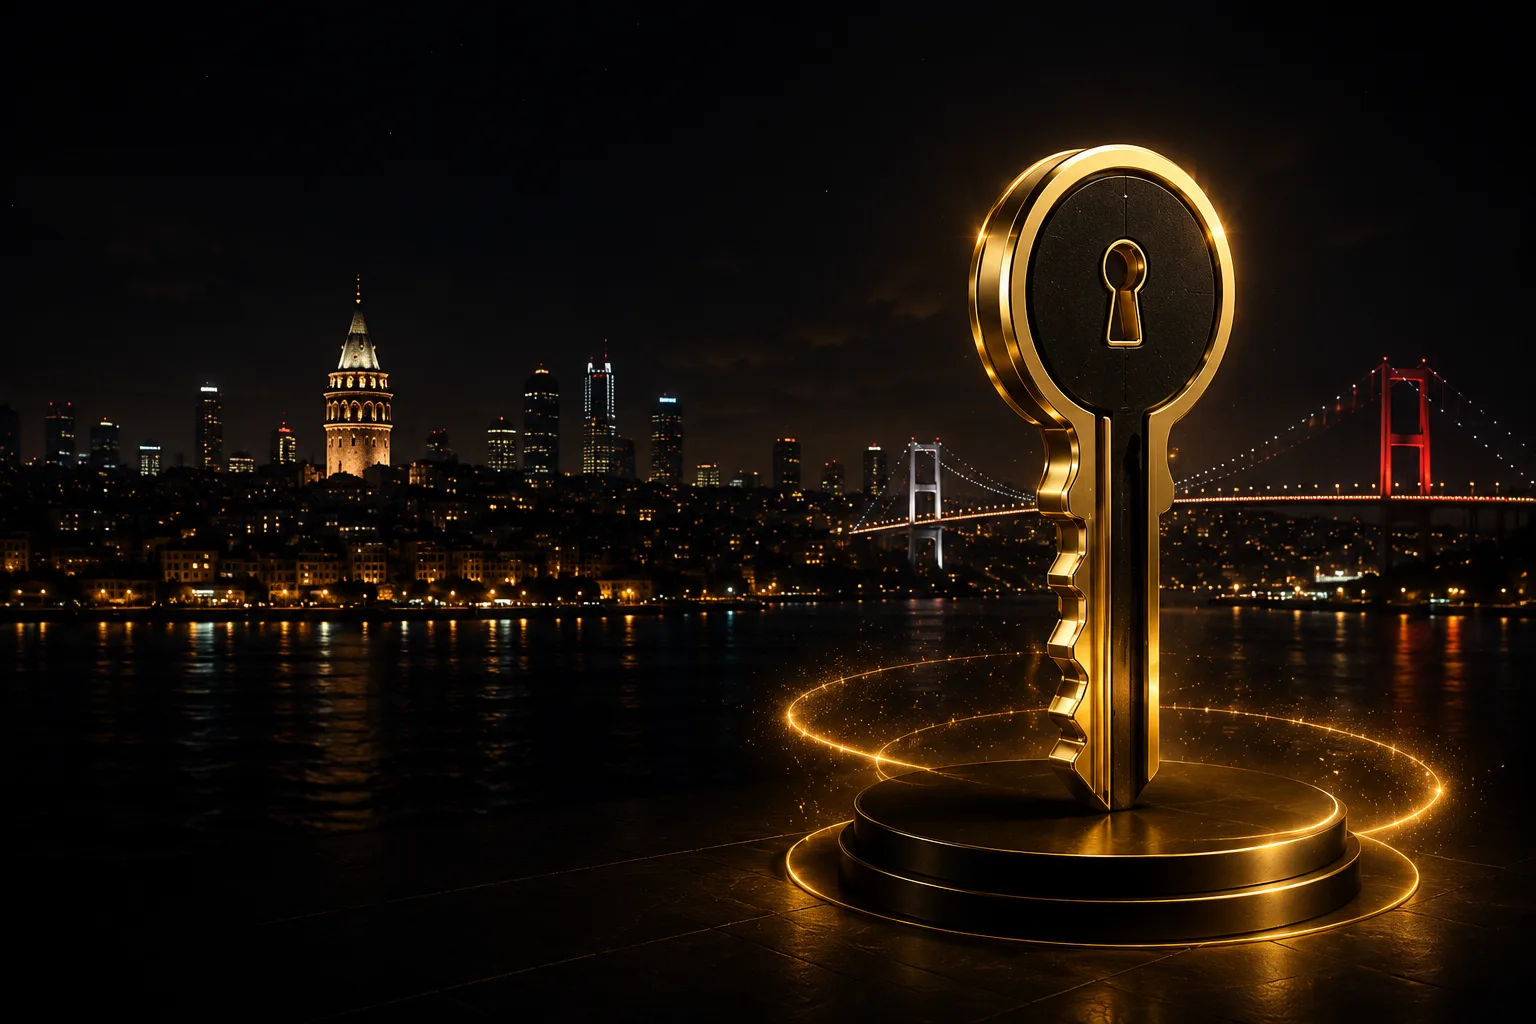
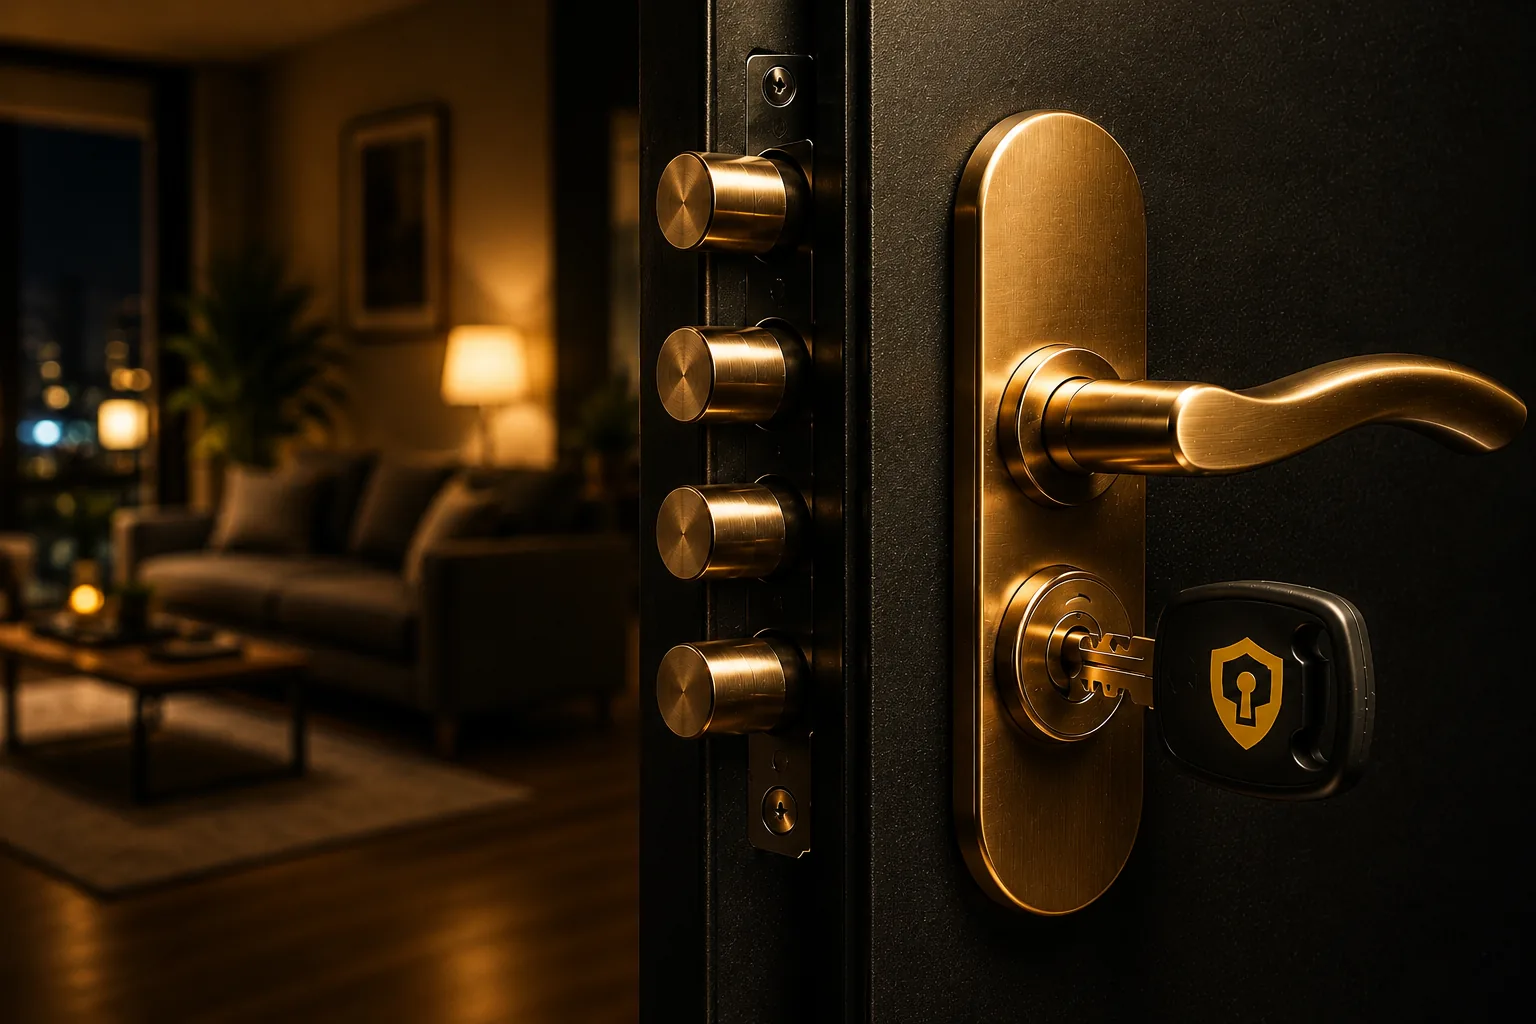
perf(seo): WebP hero image, preload, new blog post
- hero.webp: 2.1MB PNG → 116KB WebP (95% smaller), PNG fallback kept
- <source type="image/webp"> added to all 5 hero picture elements
- <link rel="preload"> for hero.webp in index.html (LCP improvement)
- New blog: çilingir dolandırıcılarından korunma (2026-06-16)

https://claude.ai/code/session_019GyEYWfbd6d4GS4FfZKP87

diff --git a/src/blogPosts.js b/src/blogPosts.js
@@ -747,6 +747,70 @@ export const BLOG_POSTS = [
     ],
   },
 
+  {
+    slug: 'cilingir-dolandiricilarindan-nasil-korunulur',
+    title: 'Çilingir Dolandırıcılarından Nasıl Korunulur? Bilmeniz Gereken 7 İşaret',
+    excerpt: 'Kapınız kilitli kaldığında panik anında doğru çilingiri bulmak kritik. Sahte çilingir tuzaklarını ve fahiş fiyat taktiklerini önceden tanıyın.',
+    date: '2026-06-16',
+    readMin: 5,
+    content: [
+      {
+        type: 'intro',
+        text: 'Kapınız kilitli kaldığında aklınızın bir köşesi her zaman fiyatı merak eder — ama panik anında insanlar çoğu zaman araştırma yapamaz ve ilk bulunan numarayı arar. Ne yazık ki bazı sahte çilingirler tam da bu anı fırsat bilir. Bu yazıda gerçek bir çilingiri nasıl tanıyacağınızı, ne zaman uyarı alarmı çalacağınızı ve kendinizi nasıl koruyacağınızı anlatıyoruz.',
+      },
+      {
+        type: 'section',
+        heading: '1. Telefonda fiyat vermekten kaçınıyorlarsa dikkat',
+        text: 'Profesyonel bir çilingir telefonda tahmini fiyat aralığı verebilir. "Görünce söylerim", "kapıya geleyim de anlayayım" gibi yanıtlar veren ve kesinlikle rakam söylemeyenler genellikle yüksek fiyat taktiklerine hazırlanıyordur. Bizi arayın — telefonda net bilgi alırsınız.',
+      },
+      {
+        type: 'section',
+        heading: '2. Arama sonuçlarında "reklam" etiketi',
+        text: '"Acil çilingir", "ucuz çilingir" gibi aramalarda üstte çıkan bazı reklamlar sahte firmalara aittir. Reklam etiketi varlığı tek başına sorun değil, ama yorum sayısı sıfır, iletişim adresi belirsiz, web sitesi bir haftalık olan firmalara karşı dikkatli olun.',
+      },
+      {
+        type: 'section',
+        heading: '3. Kapıya geldikten sonra fiyat katlanıyorsa',
+        text: 'Telefonda "200-300 lira" denilip kapıda "kilit çok zormuş, parça lazım, 1.500 lira oldu" durumu sahte firmaların klasik taktiğidir. Bu noktada kapınız açıkken teklifi reddetme hakkınız var — ödeme yapmadan gidin, güvendiğiniz bir firmayı arayın.',
+      },
+      {
+        type: 'section',
+        heading: '4. Fatura veya makbuz vermiyorlarsa',
+        text: 'Yasal çalışan her çilingir firma fatura ya da en azından makbuz vermek zorundadır. "Biz fatura kesmiyoruz" yanıtı kayıt dışı çalışmanın işaretidir. Bu hem sizi hem de işi koruyan bir belgedir.',
+      },
+      {
+        type: 'section',
+        heading: '5. Gereksiz parça değişimi öneriyorlarsa',
+        text: 'Kapı açma işleminin büyük çoğunluğunda kilit değişimine gerek yoktur. Çilingir gelmeden önce "kilidi mutlaka değiştirmek gerekecek" diyorsa bu bir uyarı işaretidir. İşi gördükten sonra gereksiz parça satmaya çalışan firmaları tercih etmeyin.',
+      },
+      {
+        type: 'section',
+        heading: '6. Kimlik veya yetki belgesi göstermiyorlarsa',
+        text: 'Özellikle gece geç saatlerde gelen bir kişiden kapıyı açmasını istemek güven gerektirir. Firma adı, araç plakası ve isim bilgisi olmayan kişileri içeri almayın. Güvenilir çilingirler bu bilgileri paylaşmaktan çekinmez.',
+      },
+      {
+        type: 'section',
+        heading: '7. Online yorumlar tutarsızsa',
+        text: 'Aynı tarihte onlarca 5 yıldız yorum, birbirine benzer cümleler ve yanıtsız kalan şikayetler sahte yorum belirtisidir. Google Maps\'te farklı tarihlere yayılmış, detaylı yorumları olan firmaları tercih edin.',
+      },
+      {
+        type: 'section',
+        heading: 'Güvenli çilingir seçimi için pratik ipuçları',
+        text: 'Acil durum öncesinde güvendiğiniz bir çilingir numarasını kaydedin. Fiyatı telefondan onaylayın ve yazılı isteyin. Panik anında ilk çıkan numarayı değil, tanıdığınız bir firmayı tercih edin. Çilingirciniz olarak her iş öncesi telefonda net fiyat bilgisi veriyoruz.',
+      },
+      {
+        type: 'links',
+        heading: 'İlgili İçerikler',
+        items: [
+          { name: 'Çilingir Çağırırken Dikkat Edilmesi Gerekenler', path: 'cilingir-cagirilirken-dikkat-edilmesi-gerekenler' },
+          { name: 'Kilit Değişimi Ne Zaman Gerekir?', path: 'kilit-degisimi-ne-zaman-gerekir' },
+          { name: 'Kapınız Kilitli Kaldığında Ne Yapmalısınız?', path: 'kapiniz-kilitli-kaldi-ne-yapmali' },
+        ],
+      },
+      { type: 'cta' },
+    ],
+  },
+
 ];
 
 export function getPostBySlug(slug) {

diff --git a/index.html b/index.html
@@ -25,6 +25,7 @@
   <link rel="alternate" hreflang="tr" href="https://cilingirciniz.com/" />
   <link rel="alternate" hreflang="en" href="https://cilingirciniz.com/locksmith-istanbul" />
   <link rel="alternate" hreflang="x-default" href="https://cilingirciniz.com/" />
+  <link rel="preload" as="image" href="/images/hero.webp" type="image/webp" fetchpriority="high" />
   <meta name="theme-color" content="#D4AF37" />
   <link rel="icon" href="/favicon.ico" sizes="any" />
   <link rel="icon" type="image/png" sizes="32x32" href="/favicon-32x32.png" />

diff --git a/src/CilingirLandingView.jsx b/src/CilingirLandingView.jsx
@@ -99,6 +99,7 @@ function Hero() {
       background: BG,
     }}>
       <picture style={{ position: 'absolute', inset: 0, width: '100%', height: '100%', zIndex: 0 }}>
+          <source type="image/webp" srcSet="/images/hero.webp" />
         
         <img
           src="/images/hero.png"

diff --git a/src/DistrictPage.jsx b/src/DistrictPage.jsx
@@ -208,6 +208,7 @@ function DistrictHero({ page }) {
         background: BG, overflow: 'hidden',
       }}>
         <picture style={{ position: 'absolute', inset: 0, width: '100%', height: '100%', zIndex: 0, overflow: 'hidden' }}>
+          <source type="image/webp" srcSet="/images/hero.webp" />
           <img
             src="/images/hero.png"
             alt={`${page.name} acil çilingir hizmeti — Çilingirciniz`}

diff --git a/src/EnLandingView.jsx b/src/EnLandingView.jsx
@@ -149,6 +149,7 @@ function EnHero() {
         background: BG, overflow: 'hidden',
       }}>
         <picture style={{ position: 'absolute', inset: 0, width: '100%', height: '100%', zIndex: 0, overflow: 'hidden' }}>
+          <source type="image/webp" srcSet="/images/hero.webp" />
           <img
             src="/images/hero.png"
             alt="24/7 emergency locksmith service in Istanbul, Çilingirciniz"

diff --git a/src/components/AnimatedEnHero.jsx b/src/components/AnimatedEnHero.jsx
@@ -117,6 +117,7 @@ export default function AnimatedEnHero() {
       }}>
 
         <picture style={{ position: 'absolute', inset: 0, width: '100%', height: '100%', zIndex: 0, overflow: 'hidden' }}>
+          <source type="image/webp" srcSet="/images/hero.webp" />
           <img
             src="/images/hero.png"
             alt="24/7 emergency locksmith service in Istanbul, Çilingirciniz"

diff --git a/src/components/AnimatedHero.jsx b/src/components/AnimatedHero.jsx
@@ -118,6 +118,7 @@ export default function AnimatedHero() {
 
         {/* Background image — static */}
         <picture style={{ position: 'absolute', inset: 0, width: '100%', height: '100%', zIndex: 0, overflow: 'hidden' }}>
+          <source type="image/webp" srcSet="/images/hero.webp" />
           <img
             src="/images/hero.png"
             alt="İstanbul'da 7/24 acil çilingir hizmeti, Çilingirciniz kapı açma uzmanı"